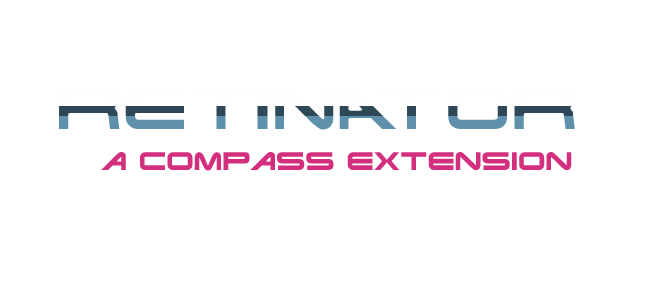
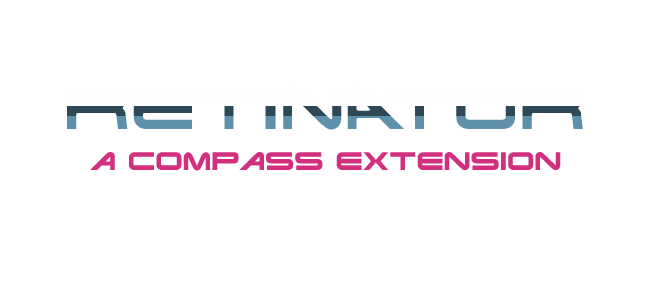
Typos and new placeholder image

diff --git a/index.html b/index.html
@@ -20,9 +20,9 @@
   <body>
       <div id="header">
         <nav>
-          <li class="fork"><a href="https://github.com/restorando/compass-retina-sprites">View On GitHub</a></li>
-          <li class="downloads"><a href="https://github.com/restorando/compass-retina-sprites/zipball/master">ZIP</a></li>
-          <li class="downloads"><a href="https://github.com/restorando/compass-retina-sprites/tarball/master">TAR</a></li>
+          <li class="fork"><a href="https://github.com/restorando/compass-retinator">View On GitHub</a></li>
+          <li class="downloads"><a href="https://github.com/restorando/compass-retinator/zipball/master">ZIP</a></li>
+          <li class="downloads"><a href="https://github.com/restorando/compass-retinator/tarball/master">TAR</a></li>
           <li class="title">DOWNLOADS</li>
         </nav>
       </div><!-- end header -->
@@ -42,14 +42,13 @@
 <img src="images/retinator.png" alt="Compass Retinator">
 <p>
   This Compass extension will allow you to create retina ready sprites from scratch. Just drop your images on the right folders, type some Compass mumble jumble and you are ready to go!
-
 </p>
 
 <h2>
   Installation
 </h2>
 
-<p><pre><code>gem installl compass-retina-sprites
+<p><pre><code>gem installl compass-retinator
 </code></pre>
 </p>
 
@@ -58,7 +57,7 @@
 </p>
 
 
-<p><pre><code>require 'compass-retina-sprites'
+<p><pre><code>require 'compass-retinator'
 </code></pre>
 </p>
 
@@ -68,7 +67,7 @@
 </h2>
 
 <p>
-  Fisrt thing to do is drop your images on the right folders. In this case I have set two folders <kbd>icons</kbd> and <kbd>icons-sprites</kbd> inside my image folder.
+  First thing to do is drop your images on the right folders. In this case I have set two folders <kbd>icons</kbd> and <kbd>icons-sprites</kbd> inside my image folder.
 </p>
 <p>
   Next, we need to tell Compass where those image are. Add this line to <kbd>variables.saas</kbd> or somewhere else
@@ -110,14 +109,14 @@ $sprites_retina: sprite-map("icons-sprites/*.png")
 </code></pre>
 
 <h2>
-  Commmons Issues
+  Common Issues
 </h2>
 
 <h3>
   The sprite position is wrong
 </h3>
 <p>
-  Please make you sure that your icons scale proportionally. If the non-retina icons are <strong>16x16</strong> your retina icons must be <strong>32x32</strong> and not <strong>30x32</strong> and definitely not <strong>45x34</strong>
+  Please be sure that your icons scale proportionally. If the non-retina icons are <strong>16x16</strong> your retina icons must be <strong>32x32</strong> and not <strong>30x32</strong> and definitely not <strong>45x34</strong>
 </p>
 
 <h3>
@@ -125,11 +124,11 @@ $sprites_retina: sprite-map("icons-sprites/*.png")
 </h3>
 
 <p>
-  You probably are running a rails app. This is a weird issue with compass-rails. For some reason compass-rails does not create the sprites on demand and do not understand the <code>sprite-map</code>.
+  You're probably running a rails app. This is a weird issue with compass-rails. For some reason compass-rails does not create the sprites on demand and doesn't understand the <code>sprite-map</code>.
 </p>
 
 <p>
-  One walkaround is to tell Compass to re-declare your sprites assets, so add this line at the top of your variables:
+  One workaround is to tell Compass to re-declare your sprites assets, so add this line at the top of your variables:
 </p>
 
 <p>
@@ -151,7 +150,7 @@ $sprites_retina: sprite-map("icons-sprites/*.png")
 </h3>
 
 <p>
-  Please keept in mind that if you are adding extra padding around the sprite item you will also need to tell Compass to add some extra space on every sprite item. Just past the varible <code>$spacing: XXpx</code>
+  Please, keep in mind, if you are adding extra padding around the sprite item, you will also need to tell Compass to add some extra space on every sprite item. Just past the varible <code>$spacing: XXpx</code>
 </p>
 
 <p>
@@ -161,7 +160,7 @@ $sprites_retina: sprite-map("icons-sprites/*.png", $spacing: 20px)
 </p>
 
 <h2>
-  Licence
+  License
 </h2>
 <p>Copyright (c) 2013 Restorando</p>
 <p>MIT License</p>
@@ -169,10 +168,6 @@ $sprites_retina: sprite-map("icons-sprites/*.png", $spacing: 20px)
 <p>The above copyright notice and this permission notice shall be included in all copies or substantial portions of the Software.</p>
 <p>THE SOFTWARE IS PROVIDED "AS IS", WITHOUT WARRANTY OF ANY KIND, EXPRESS OR IMPLIED, INCLUDING BUT NOT LIMITED TO THE WARRANTIES OF MERCHANTABILITY, FITNESS FOR A PARTICULAR PURPOSE AND NONINFRINGEMENT. IN NO EVENT SHALL THE AUTHORS OR COPYRIGHT HOLDERS BE LIABLE FOR ANY CLAIM, DAMAGES OR OTHER LIABILITY, WHETHER IN AN ACTION OF CONTRACT, TORT OR OTHERWISE, ARISING FROM, OUT OF OR IN CONNECTION WITH THE SOFTWARE OR THE USE OR OTHER DEALINGS IN THE SOFTWARE.</p>
 
-<h3>
-<a name="support-or-contact" class="anchor" href="#support-or-contact"><span class="octicon octicon-link"></span></a>Support or Contact</h3>
-
-<p>Having trouble with Pages? Check out the documentation at <a href="http://help.github.com/pages">http://help.github.com/pages</a> or contact <a href="mailto:support@github.com">support@github.com</a> and we’ll help you sort it out.</p>
       </section>
 
     </div>
